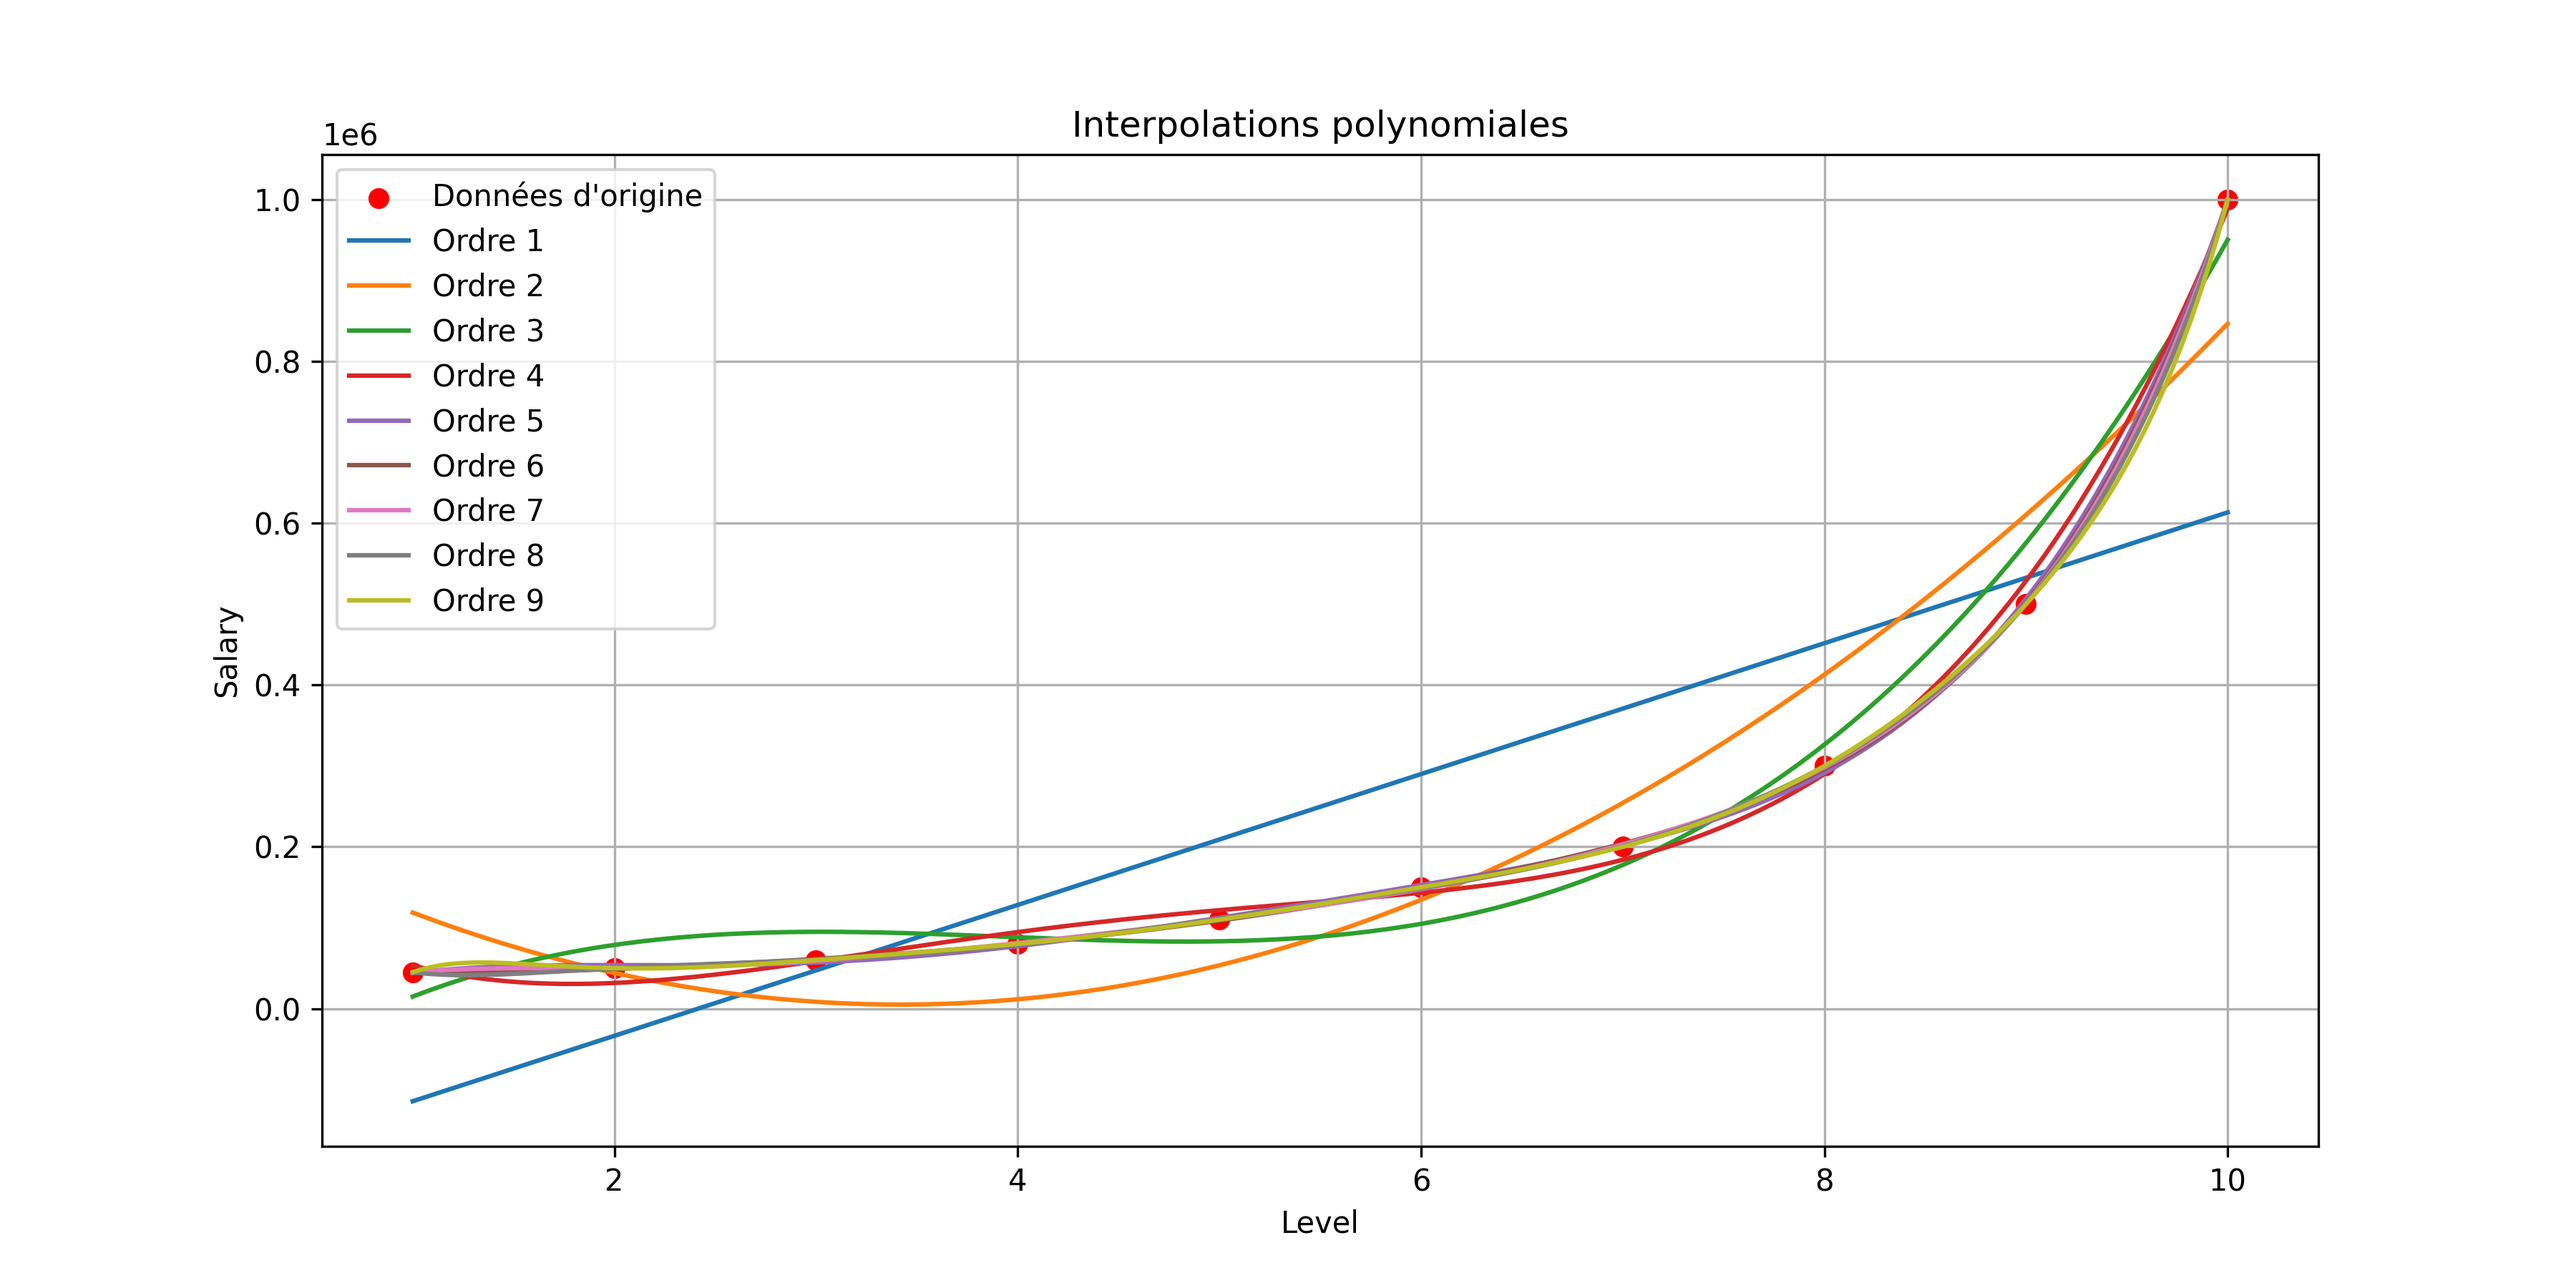
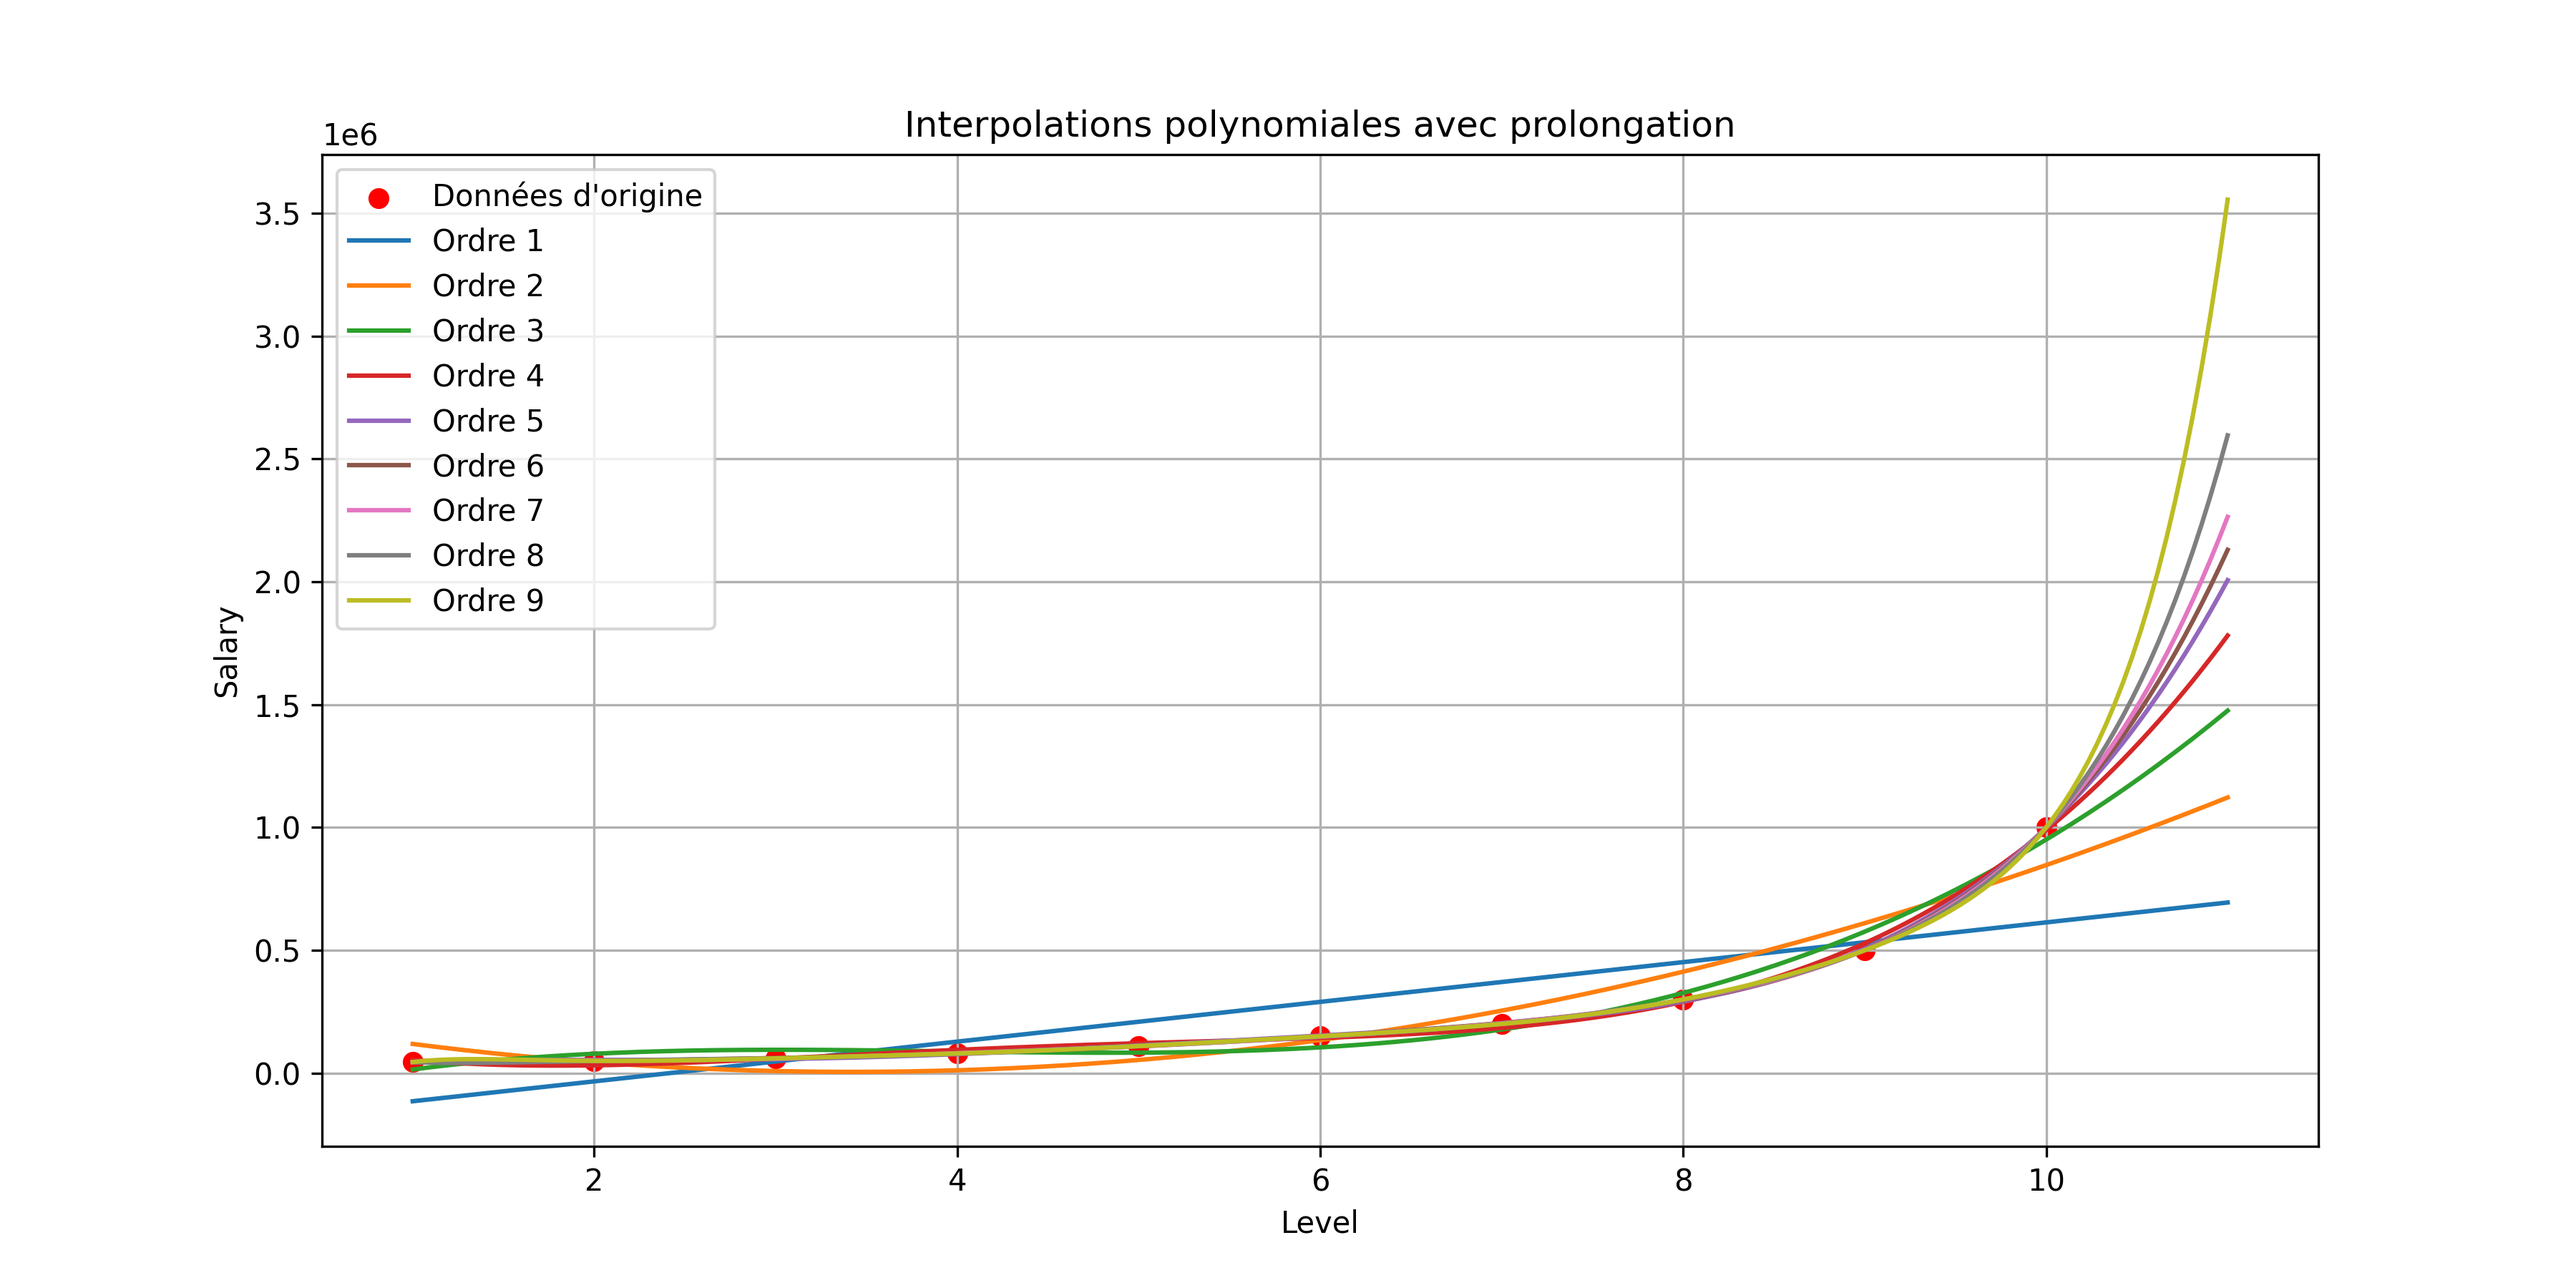
Add comment

diff --git a/utile/visualization.py b/utile/visualization.py
@@ -10,10 +10,10 @@ class Visualization:
         self.x_col = x_col
         self.y_col = y_col
         self.output_dir = output_dir
-        os.makedirs(output_dir, exist_ok=True)  # 📌 Crée le dossier s'il n'existe pas
+        os.makedirs(output_dir, exist_ok=True)
 
     def plot_interpolations(self, results):
-        """Affiche et sauvegarde les interpolations classiques."""
+        """Affiche et sauvegarde les interpolations classiques avec prolongation."""
         plt.figure(figsize=(12, 6))
 
         plt.scatter(self.df[self.x_col], self.df[self.y_col], color='red', label="Données d'origine")
@@ -21,13 +21,12 @@ class Visualization:
         for res in results:
             plt.plot(res["X_interp"], res["Y_interp"], label=f"Ordre {res['degree']}")
 
-        plt.title("Interpolations polynomiales")
+        plt.title("Interpolations polynomiales avec prolongation")
         plt.xlabel(self.x_col)
         plt.ylabel(self.y_col)
         plt.legend()
         plt.grid(True)
 
-        # 📌 Sauvegarde du fichier
         output_path = os.path.join(self.output_dir, "interpolations.png")
         plt.savefig(output_path, dpi=300)
         print(f"✅ Graphique sauvegardé : {output_path}")
@@ -35,10 +34,10 @@ class Visualization:
         plt.show()
 
     def plot_loocv(self, loocv_results):
-        """Affiche et sauvegarde les interpolations LOOCV dans une grille avec 3 graphes par ligne."""
+        """Affiche et sauvegarde les interpolations LOOCV prolongées."""
         num_orders = len(loocv_results)
         num_cols = 3
-        num_rows = -(-num_orders // num_cols)  # 📌 Equivalent à math.ceil(num_orders / num_cols)
+        num_rows = -(-num_orders // num_cols)
 
         fig, axes = plt.subplots(num_rows, num_cols, figsize=(15, 5 * num_rows))
         axes = np.array(axes).reshape(num_rows, num_cols)
@@ -65,43 +64,47 @@ class Visualization:
             fig.delaxes(axes[row, col])
 
         plt.tight_layout()
-
-        # 📌 Sauvegarde du fichier
         output_path = os.path.join(self.output_dir, "loocv.png")
         plt.savefig(output_path, dpi=300)
         print(f"✅ Graphique sauvegardé : {output_path}")
 
         plt.show()
 
+
     def plot_loocv_mse(self, loocv_results, results):
-        """Affiche et sauvegarde l'évolution du MSE LOOCV, du MSE standard et du R² en fonction de l'ordre."""
+
+        # Configuration de la figure
+        plt.figure(figsize=(12, 6))
+        
+        # Extraction des données
         degrees = list(loocv_results.keys())
-        mse_loocv_values = [res["avg_mse"] for res in loocv_results.values()]
-        mse_values = [res["mse"] for res in results]
+        mse_loocv = [res["avg_mse"] for res in loocv_results.values()]
+        mse_std = [res["mse"] for res in results]
         r2_values = [res["r2_score"] for res in results]
-
-        fig, ax1 = plt.subplots(figsize=(12, 6))
-
-        ax1.plot(degrees, mse_loocv_values, marker='o', linestyle='-', color='blue', label="MSE LOOCV")
-        ax1.plot(degrees, mse_values, marker='s', linestyle='--', color='orange', label="MSE standard")
-
-        ax1.set_xlabel("Ordre du polynôme")
-        ax1.set_ylabel("MSE", color="blue")
-        ax1.tick_params(axis='y', labelcolor="blue")
-        ax1.legend(loc="upper left")
-
+        
+        # Premier axe Y pour les MSE
+        ax1 = plt.gca()  # Get current axis
+        ax1.plot(degrees, mse_loocv, 'b-o', label="MSE LOOCV")
+        ax1.plot(degrees, mse_std, 'r--s', label="MSE Standard")
+        ax1.set_xlabel("Degré du polynôme", fontsize=12)
+        ax1.set_ylabel("MSE", color='b', fontsize=12)
+        ax1.tick_params(axis='y', labelcolor='b')
+        ax1.grid(True, linestyle='--', alpha=0.7)
+        
+        # Deuxième axe Y pour le R²
         ax2 = ax1.twinx()
-        ax2.plot(degrees, r2_values, marker='^', linestyle='-', color='green', label="R² standard")
-        ax2.set_ylabel("R²", color="green")
-        ax2.tick_params(axis='y', labelcolor="green")
-        ax2.legend(loc="upper right")
-
-        ax1.set_title("Évolution du MSE et R² en fonction de l'ordre du polynôme")
-        ax1.grid(True)
-
-        # 📌 Sauvegarde du fichier
+        ax2.plot(degrees, r2_values, 'g-^', label="R² Standard")
+        ax2.set_ylabel("R²", color='g', fontsize=12)
+        ax2.tick_params(axis='y', labelcolor='g')
+        
+        # Titre et légende
+        plt.title("Évolution des Métriques par Degré Polynomial", fontsize=14, pad=20)
+        ax1.legend(loc='upper left', bbox_to_anchor=(0.1, 1.15))
+        ax2.legend(loc='upper right', bbox_to_anchor=(0.9, 1.15))
+        
+        # Sauvegarde et affichage
         output_path = os.path.join(self.output_dir, "mse_comparison.png")
-        plt.savefig(output_path, dpi=300)
+        plt.savefig(output_path, dpi=300, bbox_inches='tight')
         print(f"✅ Graphique sauvegardé : {output_path}")
-
         plt.show()
+        plt.close()

diff --git a/utile/polynomial_regression.py b/utile/polynomial_regression.py
@@ -2,45 +2,62 @@ import numpy as np
 from sklearn.metrics import mean_squared_error, r2_score
 
 class PolynomialRegression:
-    """Gère une régression polynomiale pour un ordre donné et retourne les métriques associées."""
-
+    """
+    Implémente la régression polynomiale avec normalisation des données
+    et calcul des métriques de performance
+    """
+    
     def __init__(self, df, x_col, y_col):
         self.df = df
         self.x_col = x_col
         self.y_col = y_col
-        self.X = df[x_col].values
+        self.X = df[x_col].values  # Conversion en array numpy
         self.Y = df[y_col].values
+        
+        # Stockage des paramètres de normalisation
+        self.X_mean = np.mean(self.X)
+        self.X_std = np.std(self.X)
+
+    def _normalize(self, X):
+        """Normalisation Z-score des données X"""
+        return (X - self.X_mean) / self.X_std if self.X_std != 0 else X - self.X_mean
 
     def fit(self, degree):
-        """Ajuste un polynôme d'ordre `degree`, génère les interpolations et retourne les métriques."""
-
-        # 📌 Normalisation pour éviter les erreurs numériques
-        X_mean = np.mean(self.X)
-        X_std = np.std(self.X)
-        X_norm = (self.X - X_mean) / X_std
-
-        # Ajustement du polynôme sur les X normalisés
+        """
+        Entraîne un modèle polynomial et calcule les prédictions
+        
+        Args:
+            degree (int): Degré du polynôme à ajuster
+            
+        Returns:
+            dict: Résultats contenant les coefficients et métriques
+        """
+        
+        # Normalisation des données
+        X_norm = self._normalize(self.X)
+        
+        # Ajustement polynomial (algorithme des moindres carrés)
         coeffs = np.polyfit(X_norm, self.Y, degree)
-        poly_eq = np.poly1d(coeffs)
-
-        # Prédiction sur les X normalisés
+        poly_eq = np.poly1d(coeffs)  # Création de la fonction polynomiale
+        
+        # Prédictions sur les données d'entraînement
         Y_pred = poly_eq(X_norm)
-
-        # Génération des interpolations
-        X_interp = np.linspace(min(self.X), max(self.X), 200)  # ✅ 200 points pour affichage
-        X_interp_norm = (X_interp - X_mean) / X_std  # ✅ Normalisation des nouveaux points
-        Y_interp = poly_eq(X_interp_norm)  # ✅ Calcul des Y correspondants
-
-        # Calcul des métriques
+        
+        # Génération de points interpolés étendus pour visualisation
+        X_interp = np.linspace(min(self.X), max(self.X) * 1.1, 210)
+        X_interp_norm = self._normalize(X_interp)
+        Y_interp = poly_eq(X_interp_norm)
+        
+        # Calcul des métriques de performance
         mse = mean_squared_error(self.Y, Y_pred)
         r2 = r2_score(self.Y, Y_pred)
-
+        
         return {
             "degree": degree,
             "coefficients": coeffs,
             "r2_score": r2,
             "mse": mse,
-            "poly_eq": lambda x: poly_eq((x - X_mean) / X_std),  # Ajustement de l'échelle
-            "X_interp": X_interp,  # ✅ Correction : Assure 200 valeurs
-            "Y_interp": Y_interp  # ✅ Correction : Assure 200 valeurs aussi
+            "poly_eq": lambda x: poly_eq(self._normalize(x)),  # Fermeture pour conservation params
+            "X_interp": X_interp,
+            "Y_interp": Y_interp
         }

diff --git a/app.py b/app.py
@@ -1,41 +1,52 @@
+"""
+ENTRY POINT PRINCIPAL DE L'APPLICATION
+Gère le flux d'exécution complet de l'analyse
+"""
+
 from utile.dataset_manager import DatasetManager
 from utile.polynomial_regression import PolynomialRegression
 from utile.visualization import Visualization
 from utile.loocv import LOOCV
 
 if __name__ == "__main__":
-    file_path = "data/Position_salaries.csv"
-
-    # Gérer le dataset
+    # Configuration initiale
+    file_path = "data/Position_salaries.csv"  # Chemin vers le dataset
+    
+    # Phase 1: Gestion des données
     dataset_manager = DatasetManager(file_path)
-    dataset_manager.display_columns()
-
-    # Sélection des colonnes
+    dataset_manager.display_columns()  # Affiche les colonnes disponibles
+    
+    # Sélection interactive des colonnes
     x_col = input("\nChoisissez la colonne pour l'axe X : ")
     y_col = input("Choisissez la colonne pour l'axe Y : ")
-
+    
+    # Phase 2: Préparation des analyseurs
     df_selected = dataset_manager.select_columns(x_col, y_col)
-
+    
     if df_selected is not None:
+        # Initialisation des composants d'analyse
         poly_reg = PolynomialRegression(df_selected, x_col, y_col)
         loocv = LOOCV(df_selected, x_col, y_col)
-
-        max_degree = len(df_selected) - 1
+        
+        # Calcul du degré maximal possible
+        max_degree = len(df_selected) - 1  # Théorème d'interpolation polynomiale
+        
+        # Configuration des paramètres d'analyse
         print(f"\n📌 Nombre maximum de points : {max_degree}")
-
         degree_min = int(input(f"Entrez l'ordre minimum du polynôme (>=1) : "))
         degree_max = int(input(f"Entrez l'ordre maximum du polynôme (<= {max_degree}) : "))
-
-        # Stocker les résultats de régression classique
+        
+        # Phase 3: Calculs des régressions
         results = [poly_reg.fit(degree) for degree in range(degree_min, degree_max + 1)]
-
-        # Stocker les résultats LOOCV
-        loocv_results = {}
-        for degree in range(degree_min, degree_max + 1):
-            loocv_results[degree] = loocv.cross_validate(degree)
-
-        # 📌 Affichage des graphiques avec sauvegarde
+        
+        # Phase 4: Validation croisée
+        loocv_results = {
+            degree: loocv.cross_validate(degree)
+            for degree in range(degree_min, degree_max + 1)
+        }
+        
+        # Phase 5: Visualisation et sauvegarde
         viz = Visualization(df_selected, x_col, y_col, output_dir="output")
-        viz.plot_interpolations(results)  # 🔹 Graphique 1 : Interpolations classiques
-        viz.plot_loocv(loocv_results)     # 🔹 Graphique 2 : LOOCV par ordre
-        viz.plot_loocv_mse(loocv_results, results)  # 🔹 Graphique 3 : Comparaison MSE LOOCV vs Standard + R²
+        viz.plot_interpolations(results)  # Génère le graphique 1
+        viz.plot_loocv(loocv_results)     # Génère le graphique 2
+        viz.plot_loocv_mse(loocv_results, results)  # Génère le graphique 3

diff --git a/utile/loocv.py b/utile/loocv.py
@@ -18,34 +18,29 @@ class LOOCV:
         interpolations = []
 
         for i in range(n):
-            # Enlever un point pour l'entraînement
             df_train = self.df.drop(self.df.index[i])
 
-            # Utiliser PolynomialRegression pour ajuster le modèle sans ce point
             poly_reg = PolynomialRegression(df_train, self.x_col, self.y_col)
             result = poly_reg.fit(degree)
 
-            # Prédiction sur le point exclu
             Y_pred = result["poly_eq"](self.X[i])
 
-            # Calculer l'erreur quadratique
             squared_error = (self.Y[i] - Y_pred) ** 2
             squared_errors.append(squared_error)
 
-            # 📌 Correction : Stocker X_interp et recalculer Y_interp sur 200 points
-            X_interp = np.linspace(min(self.X), max(self.X), 200)
-            Y_interp = result["poly_eq"](X_interp)  # Assure bien 200 valeurs
+            # 📌 Prolongation de la courbe LOOCV
+            X_interp = np.linspace(min(self.X), max(self.X) * 1.1, 210)
+            Y_interp = result["poly_eq"](X_interp)
 
             interpolations.append({
                 "X_interp": X_interp,
                 "Y_interp": Y_interp
             })
 
-        # Calcul de la moyenne des erreurs quadratiques (MSE)
         avg_mse = np.mean(squared_errors)
 
         return {
             "degree": degree,
             "avg_mse": avg_mse,
-            "interpolations": interpolations  # Stocke chaque courbe LOOCV
+            "interpolations": interpolations
         }
